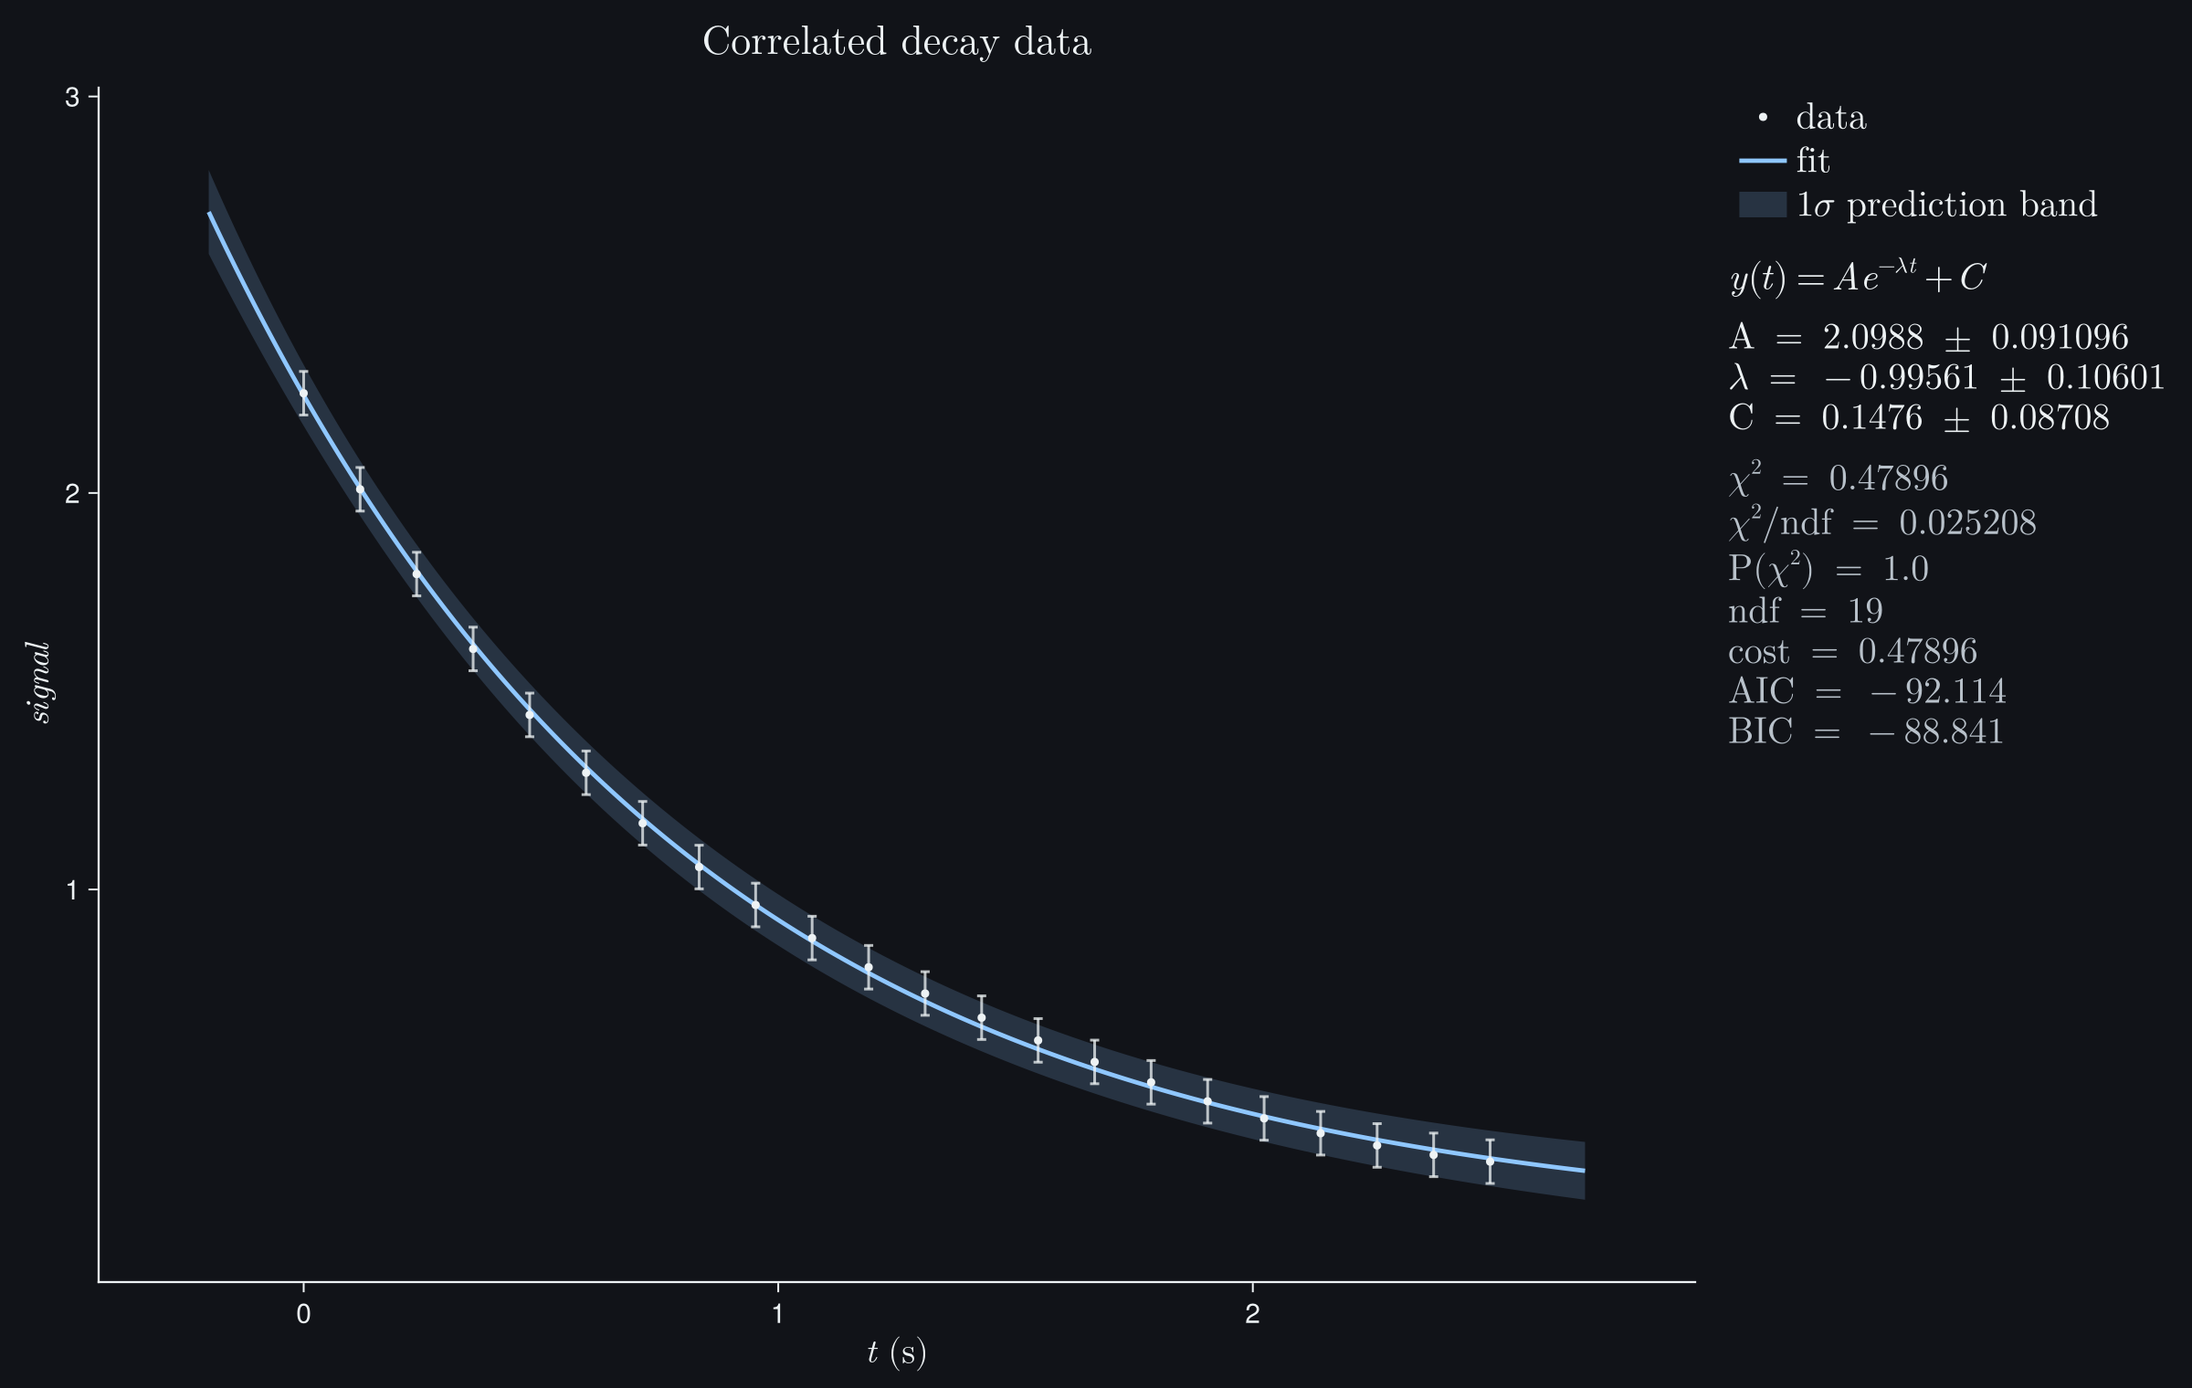
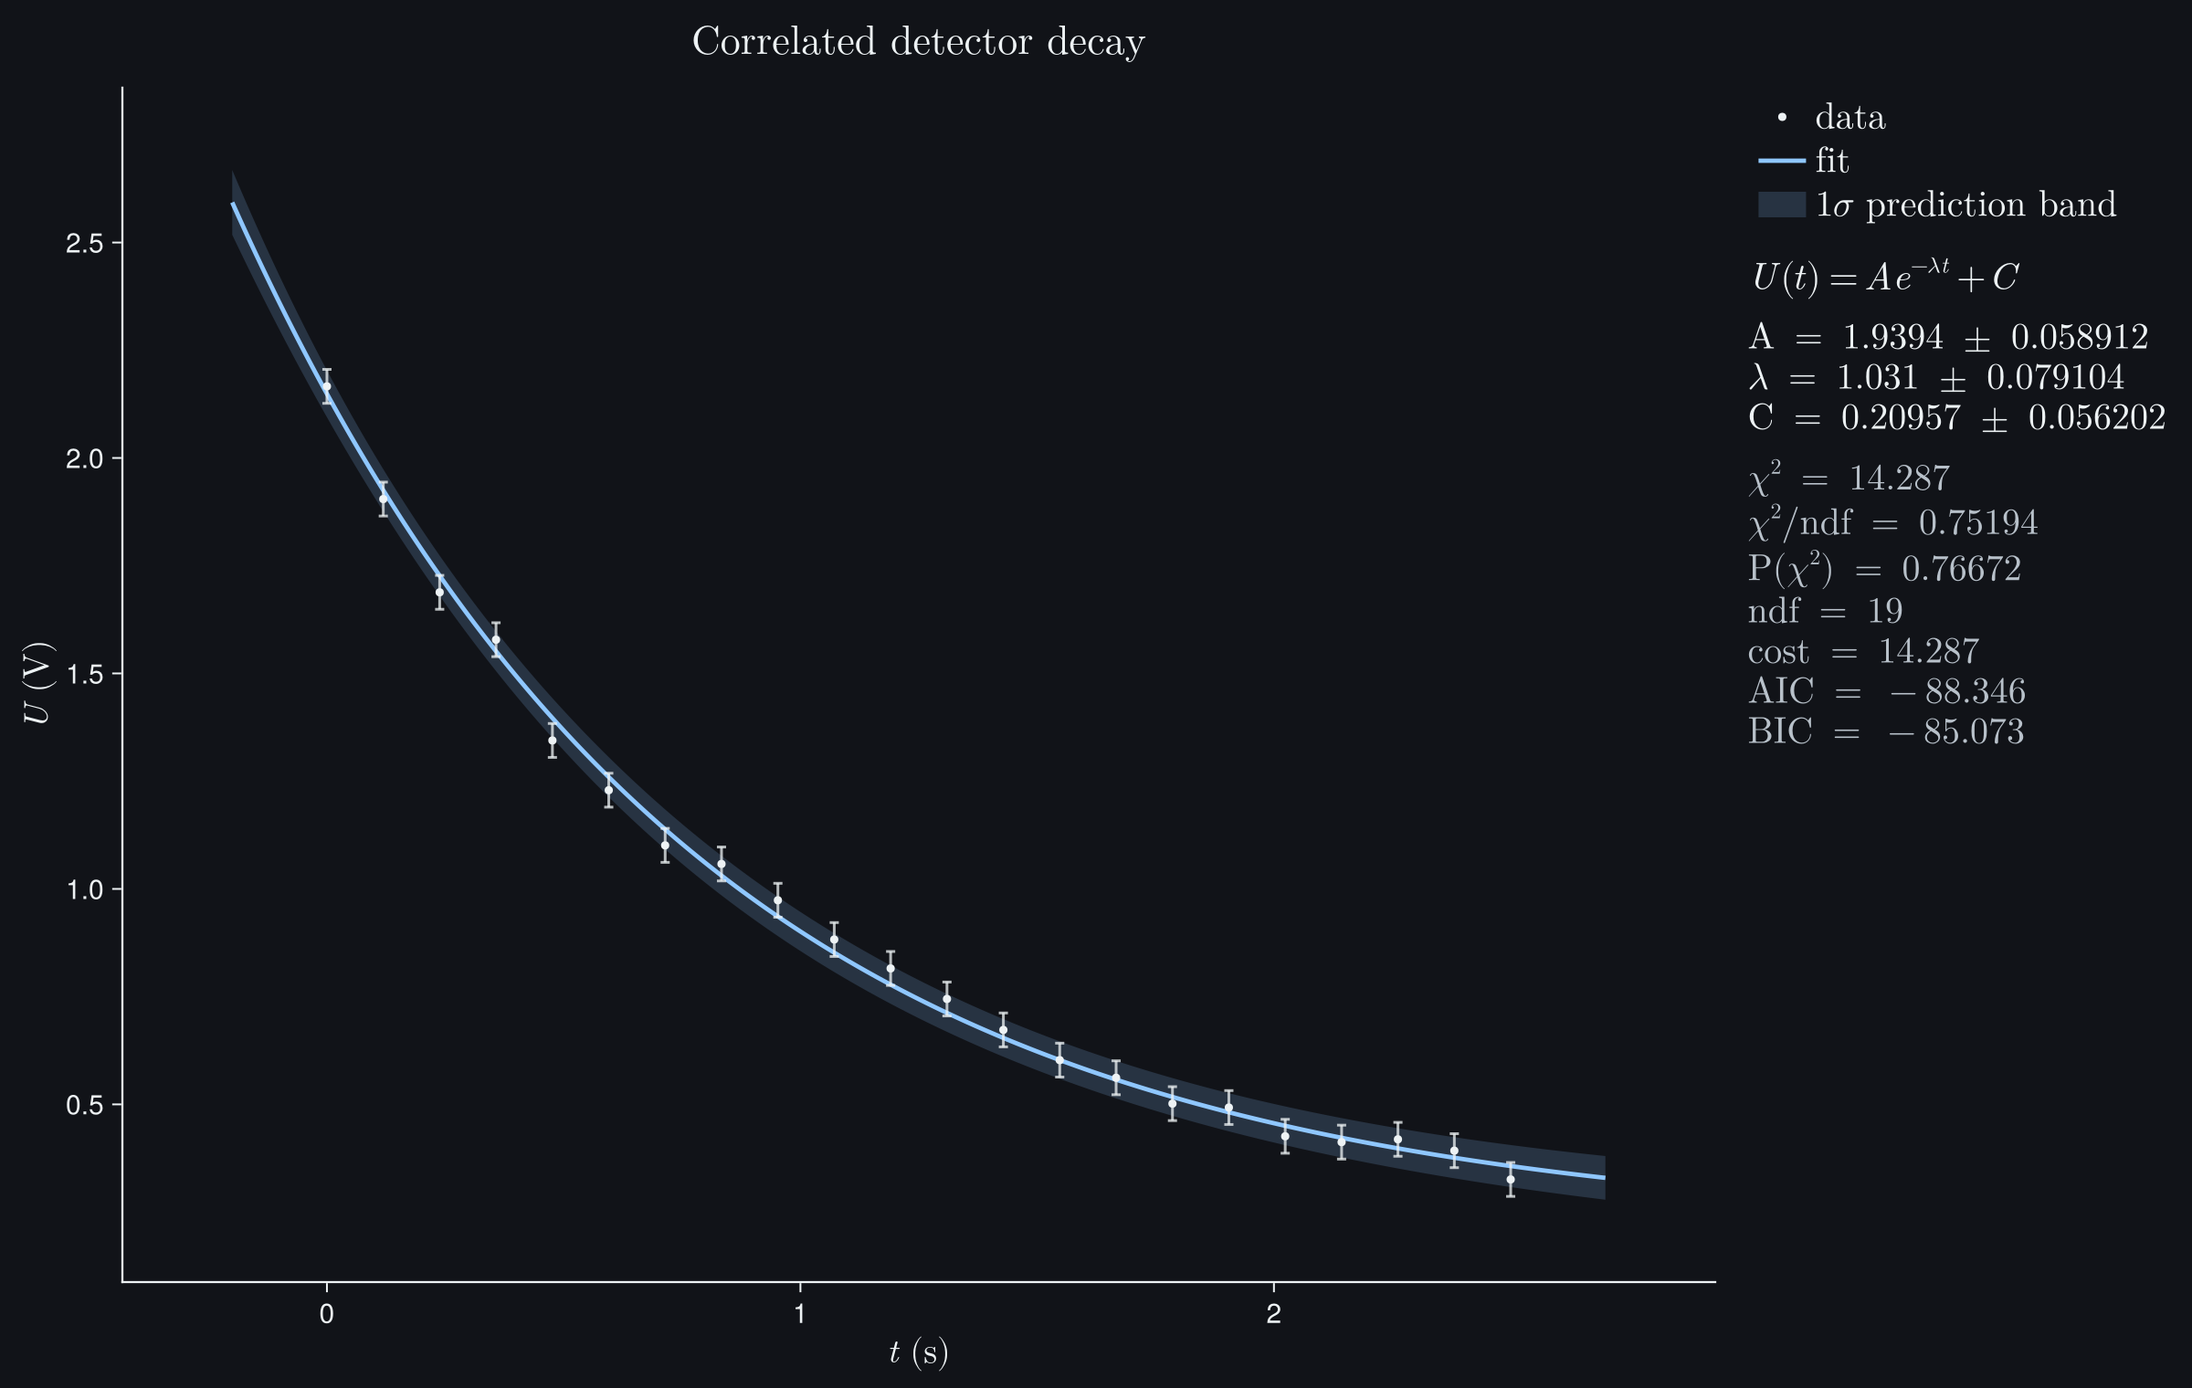
Finish full covariance tutorial

diff --git a/docs/src/gallery/full_covariance.md b/docs/src/gallery/full_covariance.md
@@ -1,9 +1,9 @@
 # Full Covariance
 
-This workflow fits an exponential decay when neighboring measurements share
+This workflow fits a detector-voltage transient when neighboring samples share
 readout noise. The essential point is that correlated uncertainty changes the
-statistical problem. A dense covariance matrix is not a prettier way to draw
-error bars; it tells the fit which residual patterns are plausible together.
+statistical problem. A covariance matrix is not a prettier way to draw error
+bars; it tells the fit which residual patterns are plausible together.
 
 ```@raw html
 <img class="jufitter-plot jufitter-plot-light" data-jufitter-plot-group="full-covariance" data-jufitter-plot-style="lab" src="../assets/gallery/full_covariance_decay_lab_light.png" alt="Full covariance exponential fit in lab style">
@@ -16,16 +16,18 @@ error bars; it tells the fit which residual patterns are plausible together.
 
 ## Question
 
-A decaying signal is sampled repeatedly with the same readout chain. Neighboring
+A decaying voltage is sampled repeatedly with the same readout chain. Neighboring
 points are not independent because baseline drift, electronics, or smoothing in
 the acquisition system affects several samples at once. The scientific question
 is:
 
 ```math
-y(t) = A e^{-\lambda t} + C,
+U(t) = A e^{-\lambda t} + C,
 ```
 
-with parameter uncertainties that account for correlated residuals.
+where ``A`` and ``C`` are voltages and the positive decay rate ``\lambda`` has
+units ``\mathrm{s^{-1}}``. The parameter uncertainties must account for the
+correlated residuals.
 
 If the correlations are ignored, the fit can look artificially precise. Many
 small residuals in the same direction do not provide as much independent
@@ -33,8 +35,8 @@ information as the same number of uncorrelated residuals.
 
 ## Data and Covariance
 
-The documentation example uses a controlled decay dataset with a known
-correlation length. Think of each point as containing two kinds of uncertainty:
+The record below is controlled and deliberately imperfect, with a known
+correlation time. Each point contains two distinct kinds of uncertainty:
 
 - a local statistical part, such as readout noise that changes independently
   from sample to sample,
@@ -43,16 +45,30 @@ correlation length. Think of each point as containing two kinds of uncertainty:
 
 If two points are close in acquisition order, they see more of the same shared
 disturbance. If they are far apart, the shared disturbance has mostly changed.
-The compact model used here is
+The compact model used here keeps those contributions separate:
 
 ```math
-V_{ij} = \sigma^2 \exp\!\left(-\frac{|i-j|}{\ell}\right).
+V_{ij}
+= \sigma_\mathrm{stat}^2\,\delta_{ij}
++ \sigma_\mathrm{corr}^2
+  \exp\!\left(-\frac{|t_i-t_j|}{\tau_\mathrm{corr}}\right).
 ```
 
-The parameter ``\ell`` is a correlation length in sample-index units. At
-``|i-j|=0`` the covariance is the variance ``\sigma^2``. At separations much
-larger than ``\ell``, the covariance becomes small and the points behave nearly
-independently.
+The Kronecker delta ``\delta_{ij}`` puts the local variance only on the diagonal.
+The exponential term represents the disturbance shared by nearby samples. In
+this record,
+
+```math
+\sigma_\mathrm{stat}=0.018\,\mathrm{V},\qquad
+\sigma_\mathrm{corr}=0.035\,\mathrm{V},\qquad
+\tau_\mathrm{corr}=0.28\,\mathrm{s}.
+```
+
+The marginal uncertainty of one point is therefore
+``\sqrt{\sigma_\mathrm{stat}^2+\sigma_\mathrm{corr}^2}=0.0394\,\mathrm{V}``,
+but adjacent points have correlation coefficient ``\rho\approx0.52``. Two
+neighboring residuals with the same sign are consequently less surprising than
+they would be for independent ``0.0394\,\mathrm{V}`` errors.
 
 This is a useful first model when the acquisition chain has a finite memory:
 baseline estimates, smoothing filters, thermal drift, or slowly varying
@@ -62,14 +78,17 @@ for example, is a systematic effect that should usually be propagated to the
 final result or represented by a separate nuisance parameter, not hidden inside
 this short-range covariance matrix.
 
-A quick sketch of the idea is:
+A three-sample sketch shows what the two terms do:
 
 ```math
-\begin{array}{c|cccc}
-|i-j| & 0 & 1 & 2 & \ldots \\
-\hline
-V_{ij}/\sigma^2 & 1 & e^{-1/\ell} & e^{-2/\ell} & \ldots
-\end{array}
+V =
+\underbrace{\sigma_\mathrm{stat}^2
+\begin{pmatrix}1&0&0\\0&1&0\\0&0&1\end{pmatrix}}_{\text{independent readout}}
++
+\underbrace{\sigma_\mathrm{corr}^2
+\begin{pmatrix}1&\rho_1&\rho_2\\\rho_1&1&\rho_1\\\rho_2&\rho_1&1\end{pmatrix}}_{\text{shared disturbance}},
+\qquad
+\rho_k=e^{-\Delta t_k/\tau_\mathrm{corr}}.
 ```
 
 ## Model and Cost
@@ -99,8 +118,8 @@ V = L L^\mathsf{T},
 
 The dense path is appropriate for small and medium datasets where the full
 matrix is meaningful and affordable. It has ``O(n^2)`` memory cost and an
-``O(n^3)`` factorization cost, so huge correlated datasets should eventually use
-structured covariance or custom whitening operators rather than dense matrices.
+``O(n^3)`` factorization cost, so huge correlated datasets should use a
+structured or problem-specific `WhiteningOperator` rather than a dense matrix.
 
 ## Fit
 
@@ -108,6 +127,7 @@ This is the complete code for the documentation example:
 
 ```julia
 using JuFitter
+using CairoMakie
 using LinearAlgebra
 
 # Measured decay samples. The values are listed explicitly because the fit
@@ -115,71 +135,124 @@ using LinearAlgebra
 t = [0.0, 0.1190, 0.2381, 0.3571, 0.4762, 0.5952, 0.7143, 0.8333,
      0.9524, 1.0714, 1.1905, 1.3095, 1.4286, 1.5476, 1.6667, 1.7857,
      1.9048, 2.0238, 2.1429, 2.2619, 2.3810, 2.5]
-y = [2.25155, 2.00932, 1.79547, 1.60660, 1.44018, 1.29422, 1.16695,
-     1.05651, 0.96079, 0.87740, 0.80381, 0.73758, 0.67658, 0.61929,
-     0.56494, 0.51354, 0.46572, 0.42253, 0.38510, 0.35431, 0.33052,
-     0.31346]
+y = [2.16623, 1.90464, 1.68827, 1.57828, 1.34449, 1.22904, 1.10101,
+     1.05791, 0.97363, 0.88257, 0.81542, 0.74456, 0.67276, 0.60263,
+     0.56175, 0.50169, 0.49266, 0.42593, 0.41237, 0.41891, 0.39254,
+     0.32576]
 
 # Neighboring samples share a readout chain, so the uncertainty model is a
 # covariance matrix instead of independent error bars.
 n = length(t)
-base_sigma = 0.055
-correlation_length = 2.3
+sigma_stat = 0.018
+sigma_corr = 0.035
+correlation_time = 0.28
 
-cov_y = [
-    base_sigma^2 * exp(-abs(i - j) / correlation_length)
+cov_U = [
+    sigma_stat^2 * (i == j) +
+    sigma_corr^2 * exp(-abs(t[i] - t[j]) / correlation_time)
     for i in 1:n, j in 1:n
 ]
 
-decay_model(t, p) = @. p[1] * exp(p[2] * t) + p[3]
+decay_model(t, p) = @. p[1] * exp(-p[2] * t) + p[3]
 
 result = fit_model(
     decay_model,
     t,
     y;
-    p0=[1.5, -0.7, 0.0],
-    cov_y=cov_y,
+    p0=[1.8, 0.8, 0.1],
+    cov_y=cov_U,
 )
 
-amplitude, decay_rate, offset = result.params
-sigma_amplitude, sigma_decay_rate, sigma_offset = result.param_stderr
+# This deliberately incomplete comparison keeps only the diagonal variances.
+diagonal_result = fit_model(
+    decay_model,
+    t,
+    y;
+    p0=[1.8, 0.8, 0.1],
+    sigma_y=sqrt.(diag(cov_U)),
+)
 
-println("A = ", amplitude, " +/- ", sigma_amplitude)
-println("lambda = ", -decay_rate, " +/- ", sigma_decay_rate)
-println("C = ", offset, " +/- ", sigma_offset)
+plot_fit(
+    result;
+    title="Correlated detector decay",
+    model_label="U(t) = A exp(-λ t) + C",
+    xlabel="time",
+    xunit="s",
+    ylabel="detector voltage",
+    yunit="V",
+    parameter_names=["A", "lambda", "C"],
+    band=:prediction,
+    nsigma=1,
+    band_label="1σ prediction band",
+    show_legend=true,
+    stats_position=:right,
+    stats_mode=:full,
+    filename="full_covariance_decay.pdf",
+)
+
+println(report_text(result; parameter_names=["A", "lambda", "C"]))
 println(diagnostic_dashboard_text(result))
+println()
+println("Diagonal-only comparison")
+println("lambda = ", diagonal_result.params[2],
+        " +/- ", diagonal_result.param_stderr[2], " s^-1")
+println("chi2/ndf = ", diagonal_result.stats.chi2_ndf)
+println(diagnostic_dashboard_text(diagonal_result))
 ```
 
 ```@raw html
 <div class="jufitter-cell-output">
 <div class="jufitter-cell-output-label">Real output (abridged)</div>
-<pre>A = 2.0987750476512956 +/- 0.09109589472907365
-lambda = 0.9956123089992535 +/- 0.10600822134107704
-C = 0.14759627451357205 +/- 0.08708023506916575
+<pre>Fit report
+backend = lsqfit
+converged = true
+iterations = unavailable
+message = Converged with LsqFit
+
+Parameters:
+  A = 1.93938 +/- 0.0589119
+  lambda = 1.03103 +/- 0.0791039
+  C = 0.209571 +/- 0.0562024
+
+Statistics:
+  cost = chi2
+  cost_min = 14.2868
+  minus2loglik_min = -94.3457
+  chi2 = 14.2868
+  ndf = 19
+  chi2/ndf = 0.751937
+  pvalue = 0.766723
+  AIC = -88.3457
+  BIC = -85.0725
 
 Fit diagnostic dashboard
+status = ok - no immediate issue
+critical = 0, warning = 0, info = 0
+No major diagnostic issues detected by the current checks.
+No next action required by the current diagnostic checks.
+
+Diagonal-only comparison
+lambda = 1.003076358513358 +/- 0.05572527436830675 s^-1
+chi2/ndf = 0.5297614781491077
+Fit diagnostic dashboard
 status = review - inspect diagnostics
-critical = 0, warning = 5, info = 0
-5 warning(s). Inspect before trusting uncertainties or conclusions.
+critical = 0, warning = 1, info = 0
+1 warning(s). Inspect before trusting uncertainties or conclusions.
 
 Next actions:
-  1. Use a covariance model, inspect acquisition order/time dependence, or fit a model with the missing systematic component.
-  2. The uncertainties may be too large, correlations may be ignored, or the data may not be independent.
-  3. Inspect this acquisition interval for drift, missing model structure, a calibration offset, or correlated uncertainty.
-  4. Look for missing curvature, drift, hysteresis, time dependence, or an incorrect independent variable transformation.
-  5. Uncertainties may be overestimated, correlations may be ignored, or the data may have been smoothed/averaged.</pre>
+  1. Inspect this acquisition interval for drift, missing model structure, a calibration offset, or correlated uncertainty.</pre>
 </div>
 ```
 
-The gallery figure is generated from the same result. It shows a 1-sigma
-prediction band, not only the model uncertainty. The side report lists the
-parameters and goodness-of-fit values computed from the full covariance model.
+The visible 1σ prediction band combines parameter uncertainty with the
+marginal observation uncertainty. The side report lists the parameters and
+goodness-of-fit values computed from the full covariance model.
 
 ## Diagnostics
 
 For a full-covariance fit, inspect more than the parameter table:
 
-- Verify that `cov_y` is symmetric and positive definite. Invalid covariance
+- Verify that `cov_U` is symmetric and positive definite. Invalid covariance
   matrices are scientific input errors, not style warnings.
 - Compare the fitted parameters with a diagonal-error fit only as a diagnostic.
   Agreement in central values does not mean the uncertainties are equivalent.
@@ -190,33 +263,36 @@ For a full-covariance fit, inspect more than the parameter table:
   acquisition process. A mathematically valid matrix is not automatically a
   physically valid uncertainty model.
 
-The diagnostic dashboard should be treated as a first pass. If it reports a
-review condition, inspect the residual structure and the covariance assumptions
-before publishing the fit.
+The full-covariance dashboard reports `ok`; the diagonal-only comparison reports
+`review` because its supposedly independent residuals retain a long same-sign
+run. The dashboard is still only a first pass. Instrument knowledge must justify
+the covariance model before the fitted uncertainties are publishable.
 
 ## Interpretation
 
-The fitted amplitude ``A`` and offset ``C`` describe the scale and baseline of
-the signal. The decay rate is reported as ``\lambda = -p_2`` because the model
-uses ``A\exp(p_2 t)+C`` with a negative fitted exponent.
+The fitted amplitude ``A`` and offset ``C`` describe the voltage scale and
+baseline. The model uses a positive physical decay rate directly as
+``A\exp(-\lambda t)+C``; no sign conversion is hidden in the report or plot.
 
 For the dataset shown here, the fit gives approximately
 
 ```math
-A = 2.10 \pm 0.09,\qquad
-\lambda = 1.00 \pm 0.11,\qquad
-C = 0.15 \pm 0.09.
+A = (1.939 \pm 0.059)\,\mathrm{V},\qquad
+\lambda = (1.031 \pm 0.079)\,\mathrm{s^{-1}},\qquad
+C = (0.210 \pm 0.056)\,\mathrm{V}.
 ```
 
-The parameter covariance now includes the assumed point-to-point correlation.
-That does not make the uncertainty automatically larger in every parameter, but
-it changes which residual patterns count as independent evidence. This is the
-main reason to use the full matrix instead of independent error bars.
+The full-covariance result has ``\chi^2/\mathrm{ndf}=0.752`` and
+``P(\chi^2)=0.767``. Its local uncertainty on the decay rate is
+``0.079\,\mathrm{s^{-1}}``. Keeping the same marginal error bars but discarding
+their off-diagonal covariance gives ``0.056\,\mathrm{s^{-1}}`` and a structured
+residual warning. In this record, the diagonal approximation therefore
+understates the decay-rate uncertainty by about 30%.
 
-For the controlled dataset shown here, the dashboard usually asks for review
-because the residual pattern is smooth. That is scientifically useful: a
-covariance matrix can account for known correlation, but it does not prove that
-the exponential model captures every systematic feature of the data.
+That direction and size are not universal. Correlations can affect different
+parameter combinations differently. The invariant point is that off-diagonal
+terms determine how much independent evidence a residual pattern contains; they
+cannot be reconstructed from error-bar lengths after the fit.
 
 ## What Can Go Wrong
 

diff --git a/RELEASE_AUDIT.md b/RELEASE_AUDIT.md
@@ -75,6 +75,13 @@ Local commits on `codex/*` branches are allowed only as reviewable checkpoints.
   model. Its real fit has ``\chi^2/\mathrm{ndf}=0.954`` and an `ok` diagnostic,
   and the page includes the complete saved plot rather than referring to hidden
   asset-generation code.
+- Full Covariance now separates local readout variance from a finite-time
+  correlated component, uses a positive physical decay-rate parameter
+  consistently in code, report, and plot, and compares the full matrix with a
+  deliberately incomplete diagonal treatment. The displayed output and six
+  style assets come from the same fit; the full model has
+  ``\chi^2/\mathrm{ndf}=0.752`` and an `ok` diagnostic, while the diagonal
+  approximation visibly understates the local parameter errors.
 - Compound gallery figures for Poisson counts, histogram likelihoods, damped
   oscillation, and multi-dataset fits now use the same natural-width
   `plot_info_panel!` layout contract as ordinary fit plots. Ordinary layouts do
@@ -148,14 +155,14 @@ Local commits on `codex/*` branches are allowed only as reviewable checkpoints.
 - `julia --project=docs --startup-file=no docs/make.jl` passes locally. The
   build output is ignored and must not be committed.
 - `julia --project=. --startup-file=no test/docs_gallery_gate.jl` passes with
-  244 checks. The gate enforces the current release standard for every public
+  249 checks. The gate enforces the current release standard for every public
   gallery page:
   scientific question, data context, model/cost explanation, complete Julia
   code, real diagnostic output, interpretation, failure modes, explicit
   one-sigma semantics, valid image assets, and complete
   `:lab`/`:modern`/`:article` light/dark plot-style coverage.
 - `julia --project=. --startup-file=no test/docs_public_release_gate.jl` passes
-  with 562 checks. The gate first verifies that every page in the public
+  with 581 checks. The gate first verifies that every page in the public
   Documenter navigation is covered, then scans those pages plus README for
   AI/placeholder wording, private local paths, author-handle leakage, and
   course-internal dataset language. It also rejects known stale public API
